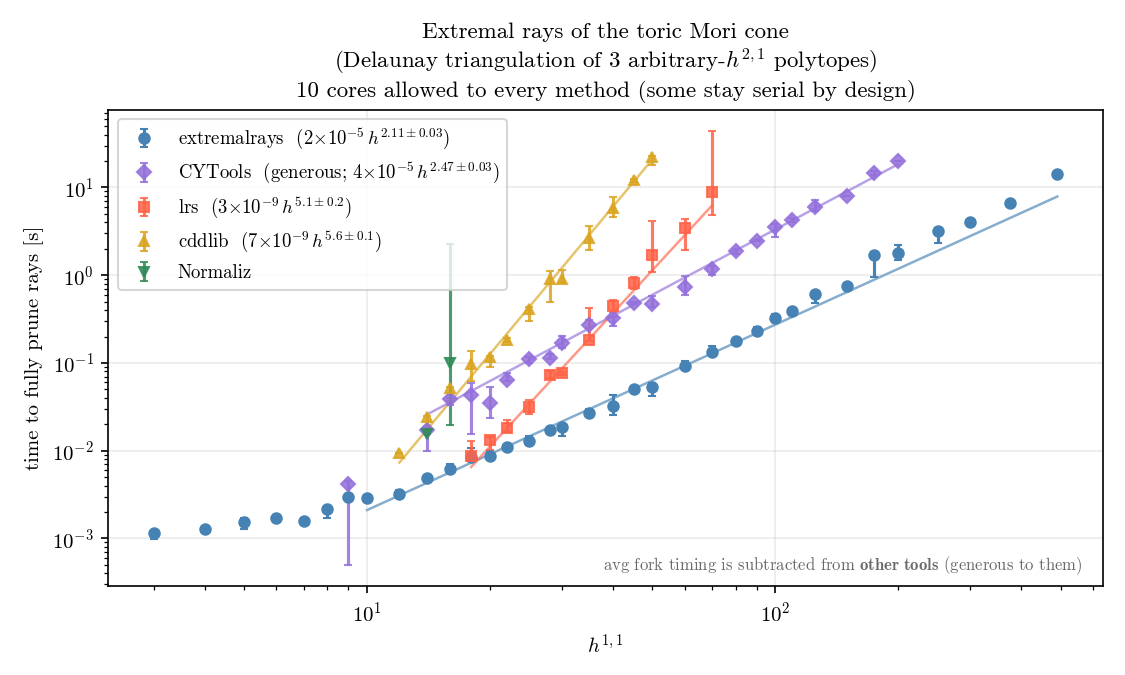
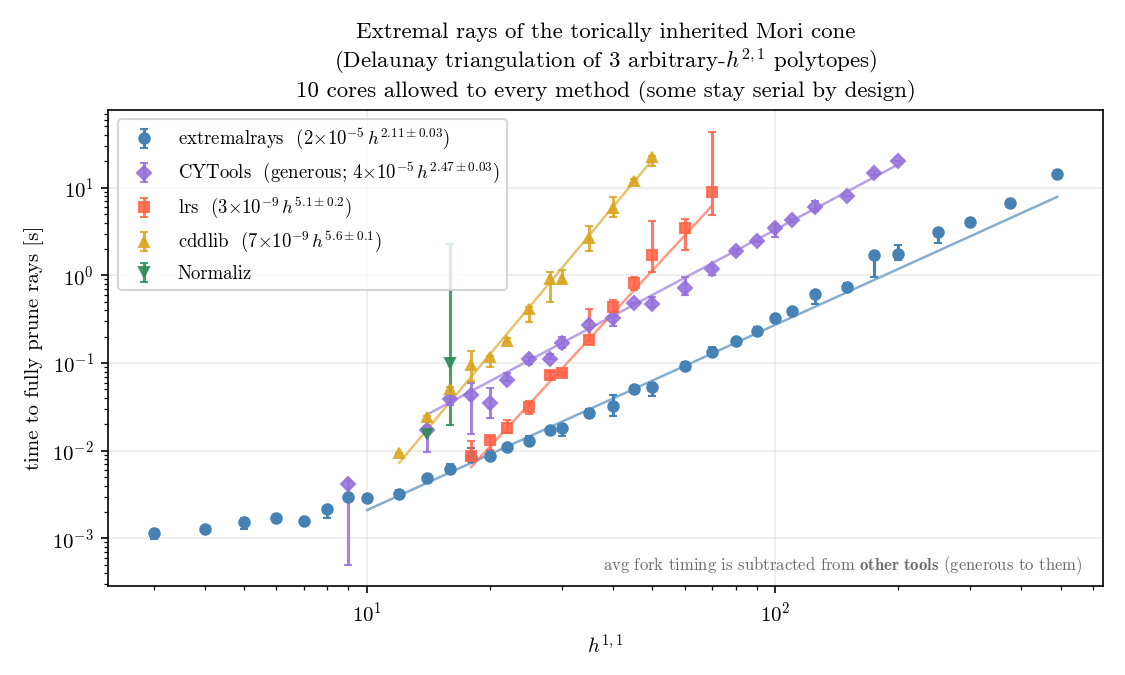
Use the group's names: torically inherited Mori cone, Mcap
"Toric Mori cone" becomes "torically inherited Mori cone". "Mori-cone cap"
and "Mori-cone CAP" become "Mcap" everywhere; that spelling is not used at
all any more. Applied across the README, the two figure titles, the
benchmark and test headers, verify.py and the changelog.

The README's first use of Mcap now says what it is rather than restating the
name: the intersection of the torically inherited Mori cones from all
'2-face equivalent' CYs. Previously it read "the same cone family capped",
which defines the term with the term.

benchmark_prior_art.png redrawn for the new title.

Claude-Session: https://claude.ai/code/session_013HRVWxy24oouKeW7jNbPKv

Changed region(s): [[0.3111, 0.0311, 0.7467, 0.0622], [0.1556, 0.3733, 0.2178, 0.4356]]

diff --git a/benchmarks/_plot.py b/benchmarks/_plot.py
@@ -15,7 +15,7 @@
 # -----------------------------------------------------------------------------
 # Description:  Plot the prior-art comparison written by
 #               benchmark_prior_art.py: time to compute the extremal rays of
-#               the toric Mori cone against h11, one series per method, log
+#               the torically inherited Mori cone against h11, one series
 #               scale. A method that stops appearing hit the time limit or
 #               failed; that point is marked rather than silently dropped.
 #
@@ -120,7 +120,9 @@ def main():
     ap.add_argument("--from-log", metavar="PATH",
                     help="read a running benchmark's log instead of its JSON")
     ap.add_argument("--out", default=str(DOCS / "benchmark_prior_art.png"))
-    ap.add_argument("--title", default="Extremal rays of the toric Mori cone")
+    ap.add_argument("--title",
+                    default="Extremal rays of the torically inherited "
+                            "Mori cone")
     ap.add_argument("--samples", type=int, default=3,
                     help="polytopes sampled per h11 (h21 is not controlled)")
     ap.add_argument("--watch", type=float, metavar="SECONDS",

diff --git a/benchmarks/make_caps.py b/benchmarks/make_caps.py
@@ -16,7 +16,7 @@
 # =============================================================================
 #
 # -----------------------------------------------------------------------------
-# Description:  Build the Mori-cone CAP for a range of h11 and save the rays.
+# Description:  Build the Mcap for a range of h11 and save the rays.
 #               The cap is far larger than the cone it caps: 20,899 rays at
 #               h11=50 against 333 for the cone, and 10,026,843 at h11=491 --
 #               which is what makes it the interesting benchmark family.
@@ -47,7 +47,7 @@ SENTINEL = 2 ** 31          # padding label in the encoded circuit rows
 
 
 def cap_rays(vertices):
-    """Dense ray matrix of the Mori-cone cap of the CY from this polytope."""
+    """Dense ray matrix of the Mcap of the CY from this polytope."""
     from cytools import Polytope                    # before highspy: see below
     from extremality_probe import _cap_data
     from mori_cap_rework import (_encode_circuits, _origin_circuits,

diff --git a/benchmarks/benchmark_mori_cone.py b/benchmarks/benchmark_mori_cone.py
@@ -13,7 +13,7 @@
 # =============================================================================
 #
 # -----------------------------------------------------------------------------
-# Description:  Extremal rays of toric Mori cones, this package against the
+# Description:  Extremal rays of torically inherited Mori cones, this package
 #               prior art, over a family of Calabi-Yau hypersurfaces at
 #               increasing h11. Every method solves the SAME problem (given
 #               generators of a pointed cone, return the minimal generating

diff --git a/benchmarks/benchmark_mcap.py b/benchmarks/benchmark_mcap.py
@@ -16,7 +16,7 @@
 # =============================================================================
 #
 # -----------------------------------------------------------------------------
-# Description:  Mori-cone CAP benchmark against the prior art, and the two
+# Description:  Mcap benchmark against the prior art, and the two
 #               figures it produces: time against h11, and time against the
 #               number of rays. The second is the more honest view: cap size
 #               is not monotonic in h11 (h11=90 gives 126,363 rays against

diff --git a/src/extremalrays/verify.py b/src/extremalrays/verify.py
@@ -200,7 +200,7 @@ def verify(R: ArrayLike,
     w : array-like | None, optional
         A functional positive on every ray, used for the slice exactly as
         in ``exhaustive``. Supply the same ``w`` when re-solving the
-        pointedness LP is impractical; on the 10M-ray Mori-cone cap that
+        pointedness LP is impractical; on the 10M-ray Mcap that
         LP is what makes the audit hard to start at all. Defaults to None,
         which solves the LP.
     n_workers : int, optional

diff --git a/tests/test_exhaustive.py b/tests/test_exhaustive.py
@@ -368,7 +368,7 @@ DATA = os.path.join(os.path.dirname(__file__), "data",
 
 @pytest.mark.parametrize("h11", [15, 20, 25])
 def test_mori_cap_matches_cytools(h11):
-    # Mori-cone caps: bundled ray matrices with the extremal sets a real
+    # Mcaps: bundled ray matrices with the extremal sets a real
     # CYTools run produced (16/16 agreement across h11 = 5..25 when
     # frozen); the vendored reference must reproduce the stored answer,
     # and exhaustive must match both

diff --git a/benchmarks/make_cones.py b/benchmarks/make_cones.py
@@ -65,7 +65,8 @@ def polytope_table(vertex_counts=VERTEX_FILES):
 
 def mori_rays(vertices):
     """
-    Toric Mori cone rays (in a basis) of the CY from this polytope.
+    Torically inherited Mori cone rays (in a basis) of the CY from this
+    polytope.
 
     The CY lives in a triangulation of the DUAL polytope, and only favorable
     ones are used; non-favorable cases need CYTools' experimental features

diff --git a/README.md b/README.md
@@ -85,22 +85,21 @@ By using rational arithmetic, floating point errors are avoided and definitive r
 
 Compared against CYTools, lrs, cddlib and Normaliz on cone families built from the Kreuzer-Skarke polytopes, on an Apple M1 Pro (32 GB RAM, macOS 26). Each method gets all 10 cores, though several stay serial by design. Every method's answer is checked against this package's before it is timed, so a fast wrong answer cannot win, and the fork cost of the command-line tools is measured and subtracted. Points are medians over three polytopes per $h^{1,1}$; error bars are the spread between them. Recreate with the [`benchmarks/`](benchmarks) scripts.
 
-**Toric Mori cone**, $h^{1,1} = 3$ to $491$:
+**Torically inherited Mori cone**, $h^{1,1} = 3$ to $491$:
 
 <p align="center">
-  <img src="https://raw.githubusercontent.com/LiamMcAllisterGroup/extremalrays/main/docs/benchmark_prior_art.png" alt="Runtime vs h11 for toric Mori cones: extremalrays alone reaches h11=491"/>
+  <img src="https://raw.githubusercontent.com/LiamMcAllisterGroup/extremalrays/main/docs/benchmark_prior_art.png" alt="Runtime vs h11 for torically inherited Mori cones: extremalrays alone reaches h11=491"/>
 </p>
 
-**Mori-cone cap**, which is the same cone family capped, and much larger: 20,899 rays at
-$h^{1,1}=50$ against 333 for the cone itself. Plotted against ray count, since cap size is not monotonic in $h^{1,1}$:
+**Mcap**, the intersection of the torically inherited Mori cones from all '2-face equivalent' CYs, and much larger: 20,899 rays at $h^{1,1}=50$ against 333 for the cone itself. Plotted against ray count, since Mcap size is not monotonic in $h^{1,1}$:
 
 <p align="center">
-  <img src="https://raw.githubusercontent.com/LiamMcAllisterGroup/extremalrays/main/docs/benchmark_cap_scaling.png" alt="Runtime vs cap size: extremalrays and CYTools share an exponent, cddlib and lrs do not"/>
+  <img src="https://raw.githubusercontent.com/LiamMcAllisterGroup/extremalrays/main/docs/benchmark_cap_scaling.png" alt="Runtime vs Mcap size: extremalrays and CYTools share an exponent, cddlib and lrs do not"/>
 </p>
 
 Against CYTools the exponents agree and the gap is a constant of roughly an order of magnitude. Against cddlib and lrs it is the exponent that differs ($n^{2.6}$ and $n^{3.6}$ against $n^{1.34}$), which is why they stop around 1,500 rays.
 
-On the $h^{1,1}=491$ Mori cone itself (3509 rays in 491 dimensions, 884 extremal):
+On the $h^{1,1}=491$ torically inherited Mori cone itself (3509 rays in 491 dimensions, 884 extremal):
 
 | method | time |
 | --- | --- |
@@ -108,7 +107,7 @@ On the $h^{1,1}=491$ Mori cone itself (3509 rays in 491 dimensions, 884 extremal
 | CYTools v1.4.12 `extremal_rays` | does not finish |
 | full certificate audit (optional) | ~11 s on 8 workers |
 
-The largest run so far is the cap of that same CY: 10,026,843 rays in 491 dimensions, 1,218 extremal, in 79.6 min with `n_workers=8` and the slice functional handed in via `w=`.
+The largest run so far is the Mcap of that same CY: 10,026,843 rays in 491 dimensions, 1,218 extremal, in 79.6 min with `n_workers=8` and the slice functional handed in via `w=`.
 
 ## Citation
 
@@ -139,14 +138,14 @@ extremalrays/
 │   ├── test_verify.py              # accepts right answers, rejects wrong ones, parallel audit
 │   ├── test_internals.py           # unit tests of the oracles, dedup, exact arithmetic
 │   ├── test_readme_examples.py     # the README snippet runs as documented
-│   └── data/                       # Mori-cone caps with CYTools-produced extremal sets (regression fixtures)
+│   └── data/                       # Mcaps with CYTools-produced extremal sets (regression fixtures)
 ├── benchmarks/                     # perf benchmarks; double as usage examples + make the README figures
 │   ├── benchmark_h11_491.py        # the flagship cone: repeats, dispersion, machine capture, opt-in classical baseline
 │   ├── benchmark_mori_cone.py      # runtime vs h11 against CYTools, lrs, cddlib, Normaliz
-│   ├── benchmark_mcap.py           # the same against the Mori-cone cap, vs h11 and vs problem size
+│   ├── benchmark_mcap.py           # the same against the Mcap, vs h11 and vs problem size
 │   ├── benchmark_parallel.py       # where parallelism pays: the sweep vs the audit
-│   ├── make_cones.py               # build the Mori-cone family from the Kreuzer-Skarke polytopes
-│   ├── make_caps.py                # build the Mori-cone cap family (needs the mori-cap tooling)
+│   ├── make_cones.py               # build the Mori cone family from the Kreuzer-Skarke polytopes
+│   ├── make_caps.py                # build the Mcap family (needs the mcap tooling)
 │   ├── _bench.py                   # shared timing helper: warmup, repeats, median with spread
 │   ├── _plot.py                    # the runtime-vs-h11 figure, with fitted power laws
 │   ├── _plot_scaling.py            # the runtime-vs-ray-count figure

diff --git a/CHANGELOG.md b/CHANGELOG.md
@@ -58,7 +58,7 @@ rays are returned is a minor bump at minimum, and says so here.
   changes between candidates, which leaves the basis primal feasible, so the
   default dual simplex was re-establishing dual feasibility every solve.
   Measured 22.2 s -> 13.0 s on the `h11=491` Mori cone (1.7x) with a
-  byte-identical index set, and 1.22x on the 10M-ray Mori-cone cap.
+  byte-identical index set, and 1.22x on the 10M-ray Mcap.
 - Membership LPs (`verify`, and the cleanup pass) reuse one persistent model
   instead of rebuilding it per candidate: 24.8 -> 15.7 ms per LP. The basis is
   deliberately not carried over -- see `_MembershipOracle` for why a
